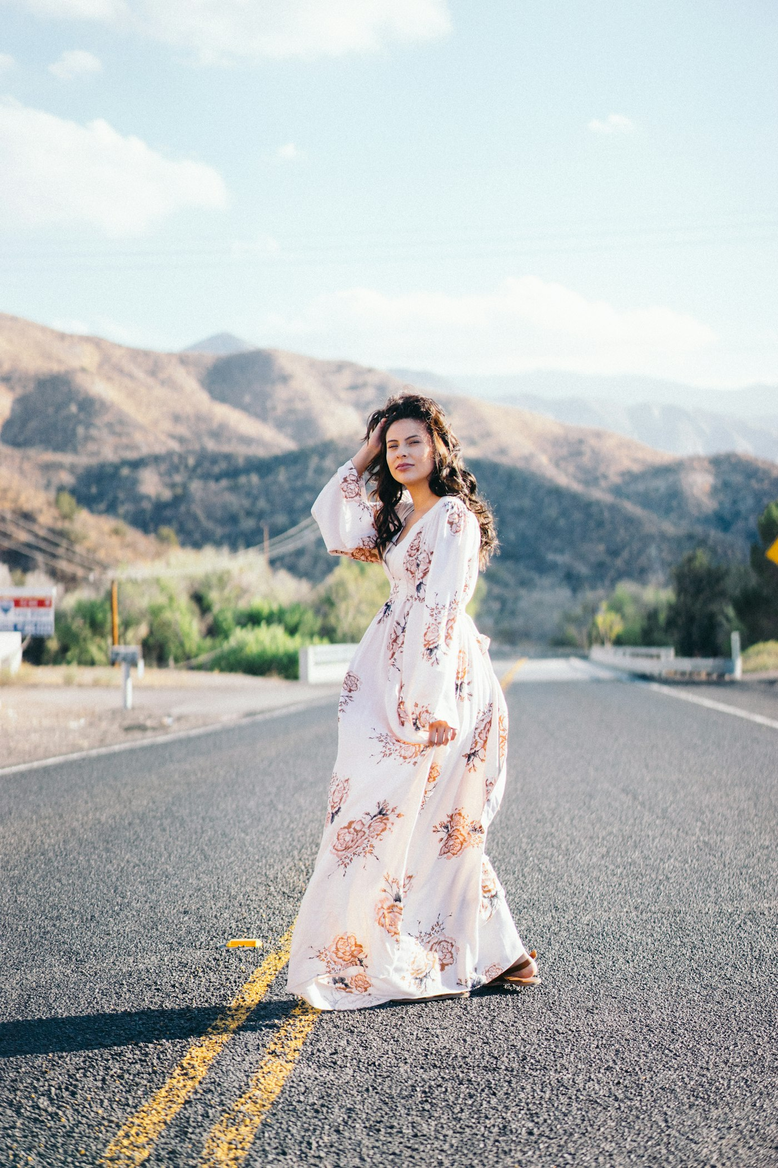
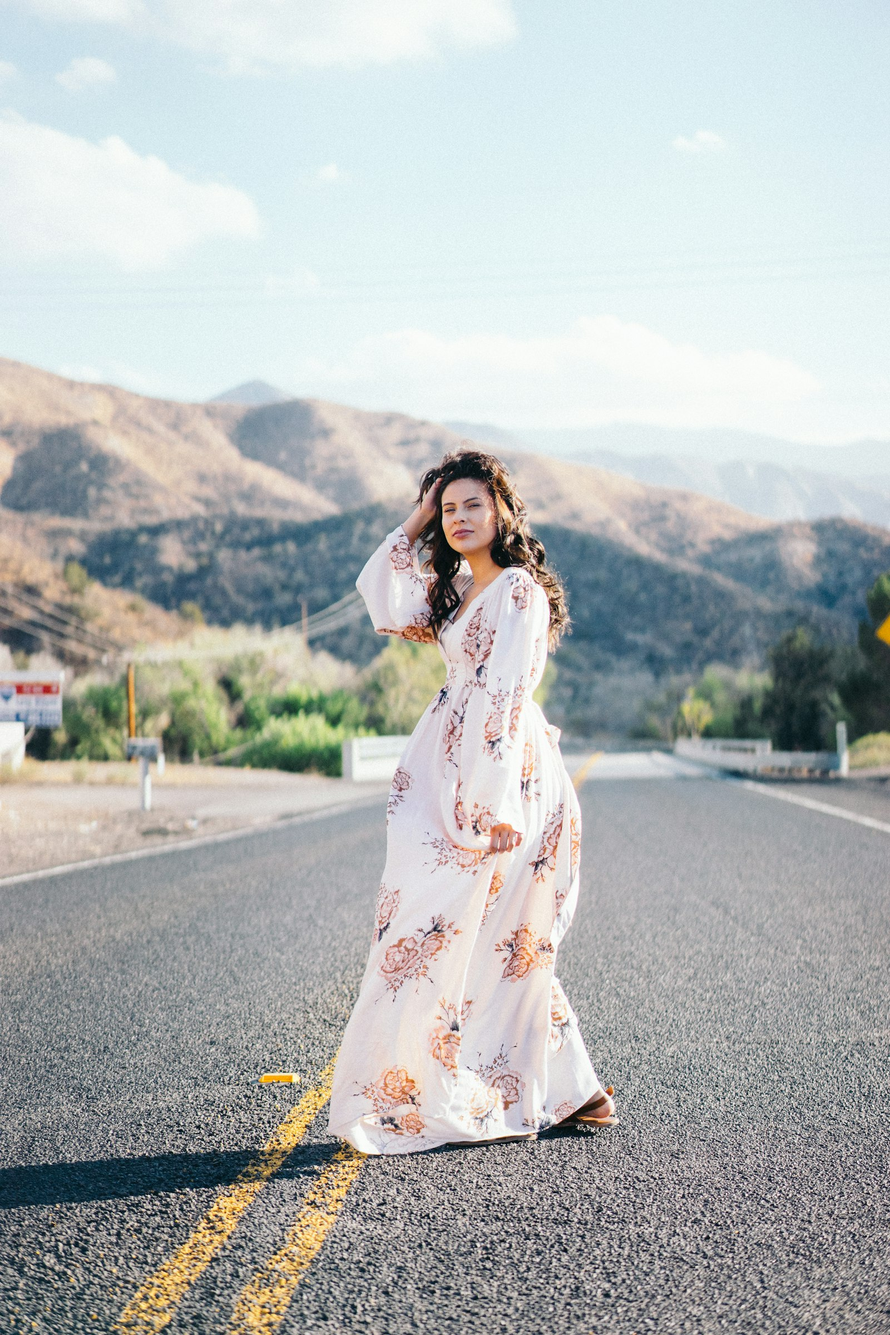
Swap stock faces for stills; frost the desk
Tables, garden, flowers, setting — no people.
Glass panels, frosted nav, a whisper of the tablescape.

diff --git a/web/src/components/layout/AppShell.tsx b/web/src/components/layout/AppShell.tsx
@@ -119,7 +119,7 @@ export function AppShell({
             key={item.href}
             href={item.href}
             className={`flex items-center gap-3 rounded-xl px-3 py-2.5 text-sm ${
-              on ? "bg-white font-medium text-ink shadow-sm" : "text-ink-soft hover:bg-white/60"
+              on ? "bg-white/70 font-medium text-ink shadow-sm backdrop-blur" : "text-ink-soft hover:bg-white/40"
             }`}
           >
             <NavIcon name={item.icon} />
@@ -139,8 +139,12 @@ export function AppShell({
   );
 
   return (
-    <div className="min-h-screen bg-paper lg:flex">
-      <aside className="hidden w-56 shrink-0 flex-col border-r border-line/80 px-3 py-5 lg:flex">
+    <div className="relative min-h-screen bg-paper lg:flex">
+      <div className="pointer-events-none fixed inset-0 -z-10 overflow-hidden">
+        <img src="/brand/tablescape.jpg" alt="" className="h-full w-full object-cover opacity-[0.14]" />
+        <div className="absolute inset-0 bg-paper/70" />
+      </div>
+      <aside className="hidden w-56 shrink-0 flex-col border-r border-white/40 bg-surface/40 px-3 py-5 backdrop-blur-xl lg:flex">
         <Link href="/dashboard" className="mb-8 flex items-center gap-2 px-2">
           <span className="flex h-8 w-8 items-center justify-center rounded-full bg-moss text-[11px] font-medium text-ivory">
             {names
@@ -157,7 +161,7 @@ export function AppShell({
       </aside>
 
       <div className="min-w-0 flex-1">
-        <header className="sticky top-0 z-30 flex items-center justify-between gap-3 border-b border-line/80 bg-paper/90 px-4 py-3 backdrop-blur-md print:hidden sm:px-6">
+        <header className="sticky top-0 z-30 flex items-center justify-between gap-3 border-b border-white/40 bg-paper/55 px-4 py-3 backdrop-blur-xl print:hidden sm:px-6">
           <div className="min-w-0">
             <p className="truncate text-[15px] font-semibold uppercase tracking-[0.14em]">{names}</p>
             <p className="truncate text-[11px] text-muted">
@@ -186,7 +190,7 @@ export function AppShell({
       {rooms && (
         <div className="fixed inset-0 z-50 print:hidden">
           <button type="button" className="absolute inset-0 bg-ink/40" aria-label="Close" onClick={() => setRooms(false)} />
-          <div className="absolute inset-x-0 bottom-0 max-h-[90vh] overflow-y-auto rounded-t-3xl bg-paper px-5 pb-10 pt-5 sm:inset-6 sm:rounded-3xl sm:pb-6">
+          <div className="absolute inset-x-0 bottom-0 max-h-[90vh] overflow-y-auto rounded-t-3xl bg-paper/80 px-5 pb-10 pt-5 backdrop-blur-2xl sm:inset-6 sm:rounded-3xl sm:pb-6">
             <div className="mb-5 flex items-start justify-between">
               <div>
                 <p className="text-[11px] uppercase tracking-[0.18em] text-muted">
@@ -234,7 +238,7 @@ export function AppShell({
       )}
 
       <nav
-        className="fixed inset-x-0 bottom-0 z-30 border-t border-line bg-paper/95 backdrop-blur lg:hidden print:hidden"
+        className="fixed inset-x-0 bottom-0 z-30 border-t border-white/40 bg-paper/60 backdrop-blur-xl lg:hidden print:hidden"
         style={{ paddingBottom: "env(safe-area-inset-bottom)" }}
       >
         <ul className="mx-auto grid max-w-lg grid-cols-5">

diff --git a/web/src/components/this-week/HomeDashboard.tsx b/web/src/components/this-week/HomeDashboard.tsx
@@ -48,7 +48,7 @@ export function HomeDashboard({
         </div>
       </section>
 
-      <section className="rounded-2xl border border-line bg-surface p-5">
+      <section className="glass-panel rounded-2xl p-5">
         <p className="text-[11px] font-medium uppercase tracking-[0.18em] text-moss">This morning</p>
         <p className="mt-2 max-w-2xl text-base leading-7 text-ink">{brief}</p>
         {next && (
@@ -68,7 +68,7 @@ export function HomeDashboard({
             <Link
               key={q.href}
               href={q.href}
-              className="group overflow-hidden rounded-2xl border border-line bg-surface"
+              className="group overflow-hidden rounded-2xl border border-white/50 bg-surface/50 backdrop-blur-xl"
             >
               <div className="aspect-[5/3] overflow-hidden">
                 <img
@@ -89,7 +89,7 @@ export function HomeDashboard({
       <div className="grid gap-4 lg:grid-cols-2">
         <ThisWeekWidget items={weekItems} />
 
-        <article className="rounded-2xl border border-line bg-surface p-5">
+        <article className="glass-panel rounded-2xl p-5">
           <div className="flex items-center justify-between">
             <h2 className="text-sm font-semibold">Budget Overview</h2>
           </div>
@@ -115,7 +115,7 @@ export function HomeDashboard({
               <Link
                 key={s.id}
                 href={s.href}
-                className="rounded-2xl border border-line bg-surface p-4 hover:border-moss/30"
+                className="glass-panel rounded-2xl p-4 hover:border-moss/30"
               >
                 <p className="text-[10px] font-medium uppercase tracking-[0.16em] text-moss">{s.kind}</p>
                 <p className="mt-1 text-sm font-medium">{s.title}</p>

diff --git a/web/src/components/this-week/HomeDesk.tsx b/web/src/components/this-week/HomeDesk.tsx
@@ -26,7 +26,7 @@ export function ThisWeekWidget({ items }: { items: WeekItem[] }) {
   }
 
   return (
-    <article className="rounded-2xl border border-line bg-surface p-5">
+    <article className="glass-panel rounded-2xl p-5">
       <h2 className="text-sm font-semibold">This Week</h2>
       <ul className="mt-4 space-y-3">
         {rows.slice(0, 5).map((item) => (
@@ -88,7 +88,7 @@ export function RsvpWidget() {
   }
 
   return (
-    <article className="rounded-2xl border border-line bg-surface p-5">
+    <article className="glass-panel rounded-2xl p-5">
       <p className="text-[10px] font-medium uppercase tracking-[0.16em] text-moss">RSVP</p>
       <p className="mt-2 font-serif text-3xl">{count == null ? "—" : count}</p>
       <p className="text-sm text-muted">waiting on a reply</p>
@@ -147,7 +147,7 @@ export function PayWidget() {
   }
 
   return (
-    <article className="rounded-2xl border border-line bg-surface p-5">
+    <article className="glass-panel rounded-2xl p-5">
       <p className="text-[10px] font-medium uppercase tracking-[0.16em] text-moss">Money</p>
       <h2 className="mt-1 text-sm font-semibold">Log a payment</h2>
       <form onSubmit={submit} className="mt-3 space-y-2">

diff --git a/web/src/app/globals.css b/web/src/app/globals.css
@@ -89,9 +89,27 @@ body {
   }
 }
 
+.glass-panel {
+  background: color-mix(in srgb, var(--color-surface) 58%, transparent);
+  border: 1px solid color-mix(in srgb, #ffffff 65%, var(--color-line));
+  box-shadow: 0 18px 48px -28px rgba(18, 17, 15, 0.35);
+}
+
+@supports ((-webkit-backdrop-filter: blur(20px)) or (backdrop-filter: blur(20px))) {
+  .glass-panel {
+    -webkit-backdrop-filter: blur(20px) saturate(1.18);
+    backdrop-filter: blur(20px) saturate(1.18);
+  }
+}
+
 @media (prefers-reduced-transparency: reduce) {
   .glass {
     background: var(--color-night);
+    -webkit-backdrop-filter: none;
+    backdrop-filter: none;
+  }
+  .glass-panel {
+    background: var(--color-surface);
     -webkit-backdrop-filter: none;
     backdrop-filter: none;
   }

diff --git a/web/src/components/layout/RoomSubnav.tsx b/web/src/components/layout/RoomSubnav.tsx
@@ -17,7 +17,7 @@ export function RoomSubnav({ room }: { room: keyof typeof ROOM_SUBNAV }) {
             key={item.href}
             href={item.href}
             className={`shrink-0 rounded-full px-3 py-1.5 text-xs font-medium ${
-              on ? "bg-moss text-ivory" : "text-ink-soft hover:bg-white"
+              on ? "bg-moss/90 text-ivory backdrop-blur" : "bg-white/35 text-ink-soft hover:bg-white/55"
             }`}
           >
             {item.label}
